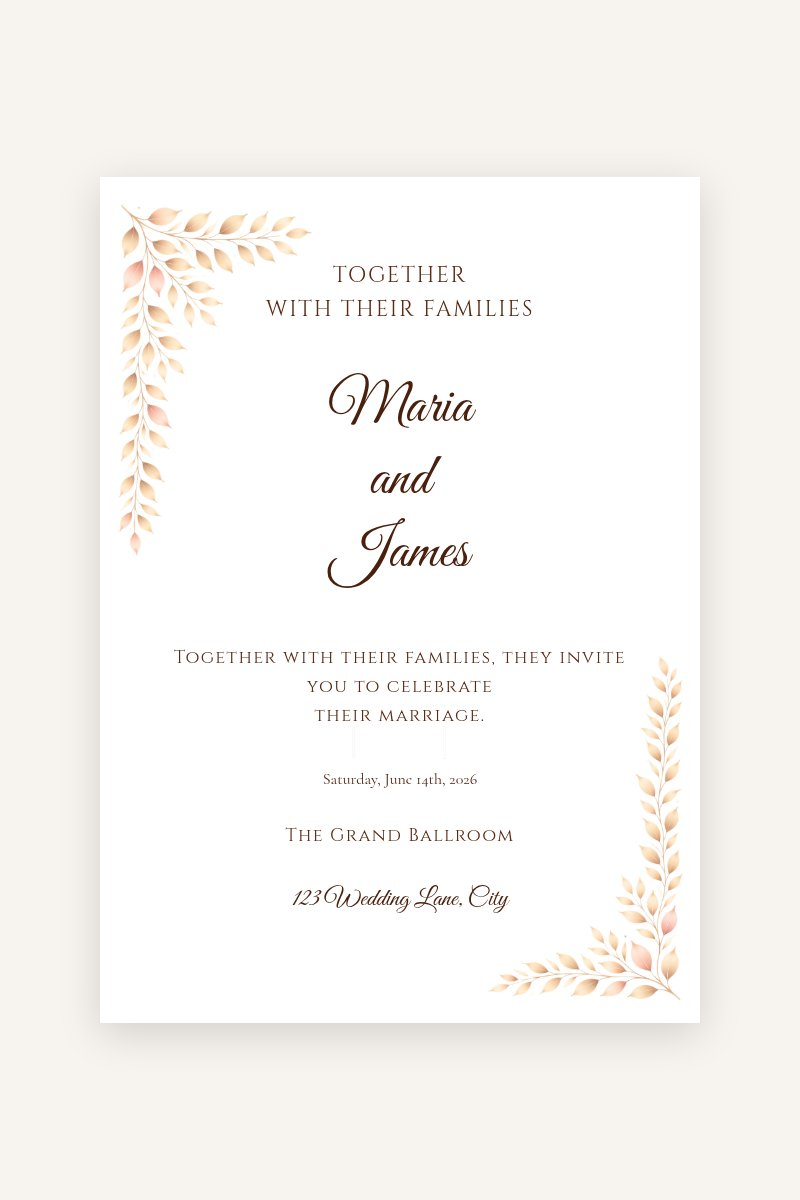
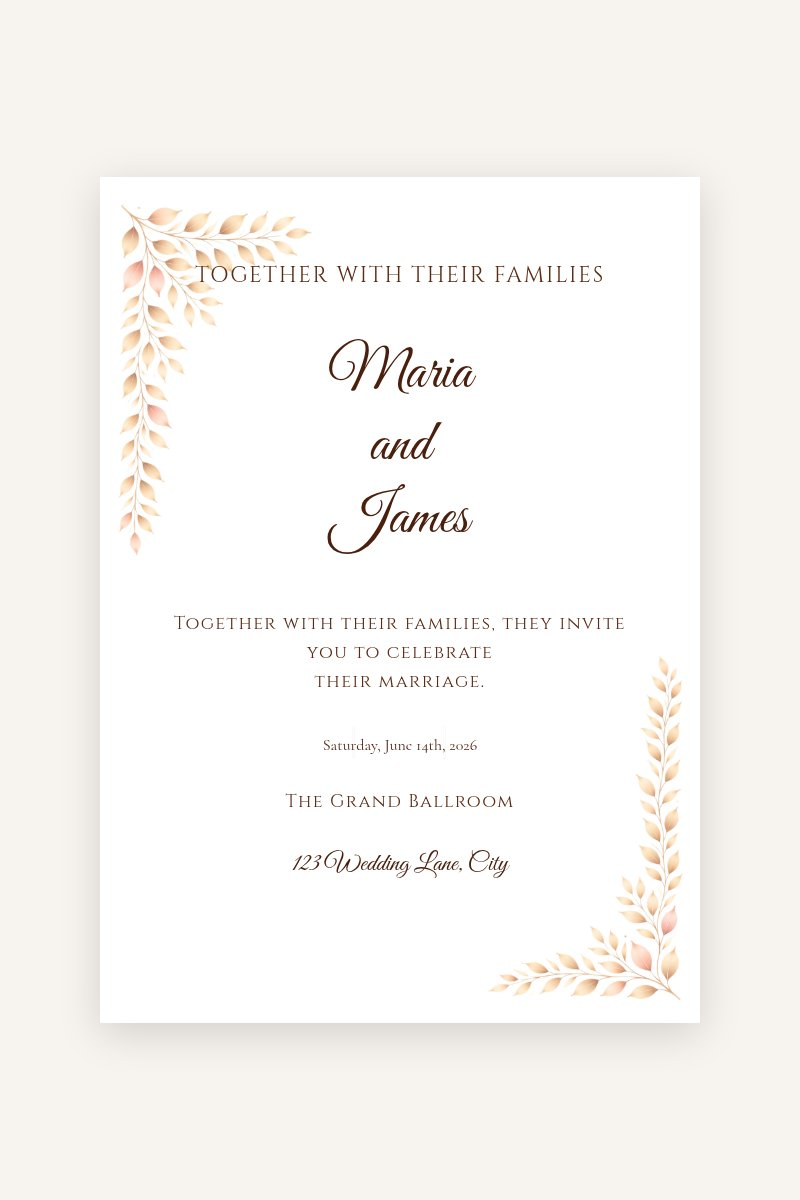
feat(templates): pass translations to screenshot renderer and regenerate previews

diff --git a/server/db/templates-screenshots.ts b/server/db/templates-screenshots.ts
@@ -5,6 +5,7 @@ import { substituteTemplate } from '../utils/template-substitute'
 
 const TEMPLATES_DIR = 'server/db/templates'
 const IMAGES_DIR = 'public/images/templates'
+const EN_LOCALE_PATH = 'i18n/lang/en.json'
 const SAMPLE_DATA = {
   coupleName1: 'Maria',
   coupleName2: 'James',
@@ -35,11 +36,12 @@ async function main() {
   }
 
   console.log(`[screenshots] generating ${pending.length} image(s)...`)
+  const translations = JSON.parse(readFileSync(EN_LOCALE_PATH, 'utf-8'))
   const browser = await puppeteer.launch({ args: ['--no-sandbox'] })
   try {
     for (const slug of pending) {
       const html = readFileSync(join(TEMPLATES_DIR, slug, 'template.html'), 'utf-8')
-      const rendered = substituteTemplate(html, SAMPLE_DATA)
+      const rendered = substituteTemplate(html, SAMPLE_DATA, translations)
       const page = await browser.newPage()
       await page.setViewport(VIEWPORT)
       await page.setContent(rendered, { waitUntil: 'networkidle0' })
